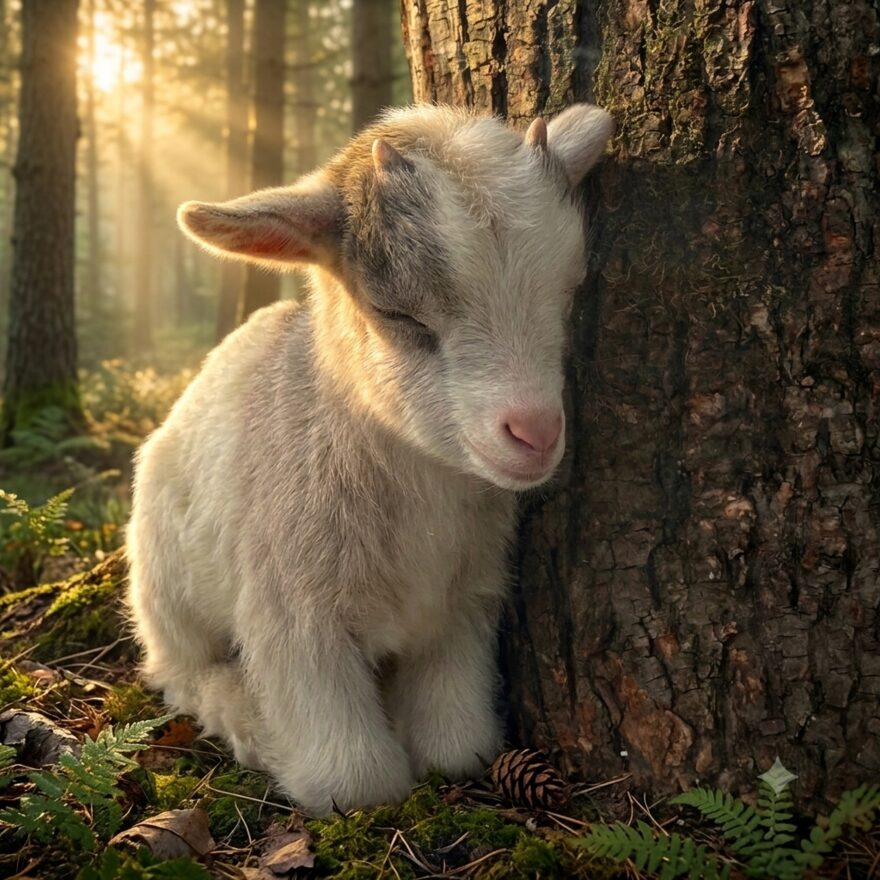
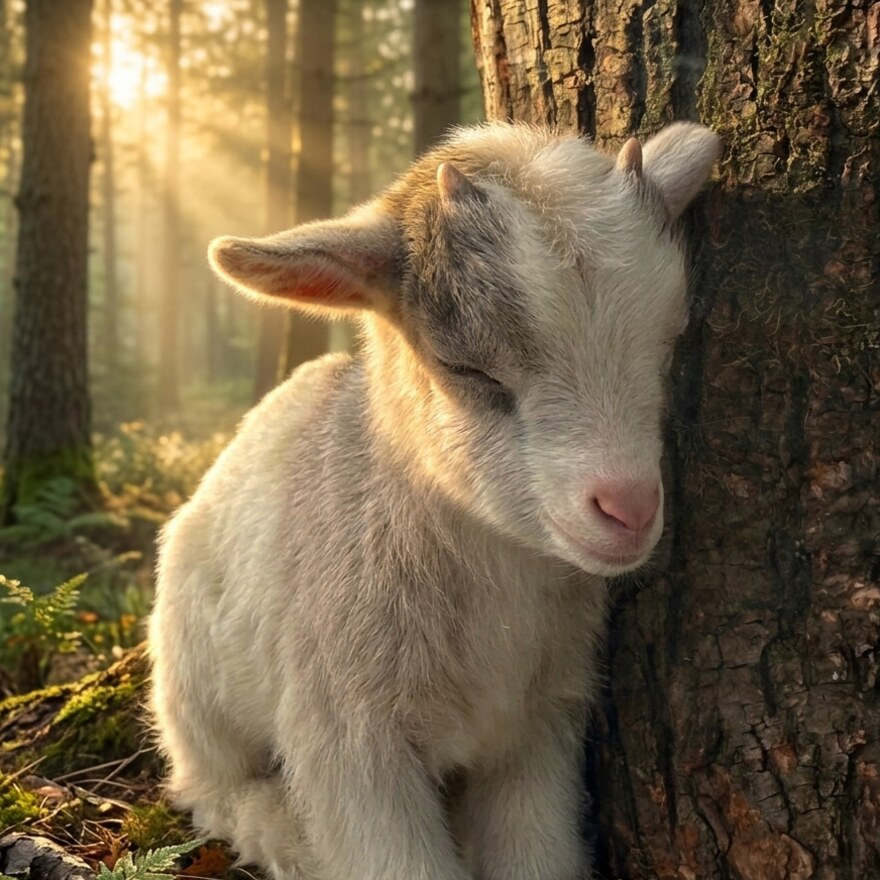
Real album sources/metadata, cover updates, rasta border fixes
- Tabula Rasta: 2001 debut on Internet Archive (not SoundCloud); add
  archiveUrl support to albums.js + AlbumPage embeds/links the archive
  player; real tracklist, credits, liner notes
- Reggae Regatta: correct 2016 date; full 13-track listing from the
  SoundCloud playlist; refreshed OG art
- New square covers for Tabula Rasta and Morning Ritual
- Footer text bumped up the type ramp for legibility
- photo-border: uniform 2px so the rasta gradient wraps all four sides
  evenly; display:block on the frame so the home Latest Drop (span)
  border tracks the image height

diff --git a/src/data/albums.js b/src/data/albums.js
@@ -12,6 +12,9 @@
  *   coverArt      string   square sleeve (public path)
  *   ogImage       string   1200×630 social card (public path); optional → brand default
  *   soundcloudUrl string   canonical SoundCloud playlist URL (source for the embed)
+ *   archiveUrl    string   Internet Archive item URL (/details/…) — alternative
+ *                          source to soundcloudUrl; the page embeds + links whichever
+ *                          one is present (archive wins if both are set)
  *   notes         string[] paragraphs of about/liner prose (optional)
  *   tracklist     string[] ordered track titles (optional)
  *   credits       object   { producer, musicians[], studio } (all optional)
@@ -20,7 +23,7 @@ export const albums = [
   {
     slug: 'reggae-regatta',
     title: 'Reggae Regatta',
-    year: '2024',
+    year: '2016',
     coverArt: '/covers/reggae-regatta.jpg',
     ogImage: '/og/reggae-regatta.jpg',
     // This is the album that lived on the homepage SoundCloud embed.
@@ -30,11 +33,19 @@ export const albums = [
       'Mixed for the night session: warm, weathered, and built to be played end to end. Always militant, never political.',
     ],
     tracklist: [
-      'Regatta Overture',
-      'Tide & Time',
-      'Harbour Dub',
-      'Sammy-on-Fire',
-      'Long Crossing',
+      'GRP Funk',
+      'On Island',
+      'Make Reggae Great Again',
+      'Snow Day',
+      'Reggae Winter',
+      'Evil Farmer',
+      'Reggae House Party',
+      'Kandinsky Does Not Tell Us',
+      'Nosara Nights',
+      'Riff Oceanus',
+      'First Light',
+      '90 Minutes North of Miami',
+      'Furniture Sold',
     ],
     credits: {
       producer: 'Sammy-on-Fire',
@@ -45,16 +56,26 @@ export const albums = [
   {
     slug: 'tabula-rasta',
     title: 'Tabula Rasta',
-    year: '2026',
+    year: '2001',
     coverArt: '/covers/tabula-rasta.jpg',
     ogImage: '/og/tabula-rasta.jpg',
-    // PLACEHOLDER — swap for the real Tabula Rasta playlist URL when it lands.
-    soundcloudUrl: 'https://soundcloud.com/tabula-rasta/sets/tabula-rasta',
+    // The debut lives on the Internet Archive, not SoundCloud.
+    archiveUrl: 'https://archive.org/details/Georgetown_Reggae_Project_Tabula_Rasta',
     notes: [
-      'A clean slate. Tabula Rasta is the next record taking shape — sparser, stranger, the riddim wiped back to first principles.',
+      "The GRP's debut. Tabula Rasta dropped on February 17, 2001 — a clean slate, the riddim wiped back to first principles: seven cuts of studio-built reggae, sparse and strange, dub tails left long.",
+      'Most music written by GRP. With respect to Peter, Bunny and Bob, Black Uhuru, Marcus Garvey, Big Youth — and Bret Easton Ellis. Always militant, never political.',
+    ],
+    tracklist: [
+      'Used to Go to Church',
+      'Stir It Up Dub',
+      'Mellow Wine',
+      'The Clique',
+      'Freebass',
+      'Ghebresus',
+      'Freebass (Not Like, It Is)',
     ],
     credits: {
-      producer: 'Sammy-on-Fire',
+      musicians: ['Chinamon', 'Doc Brown', "Drumbo'x"],
       studio: 'Georgetown Sound',
     },
   },

diff --git a/src/pages/AlbumPage.jsx b/src/pages/AlbumPage.jsx
@@ -22,6 +22,11 @@ function toEmbedUrl(setUrl) {
   return `https://w.soundcloud.com/player/?${params.toString()}`;
 }
 
+/** Turn an Internet Archive item URL (…/details/ID) into its embed URL (…/embed/ID). */
+function toArchiveEmbedUrl(itemUrl) {
+  return itemUrl.replace('/details/', '/embed/');
+}
+
 /**
  * Per-album landing page (/albums/:slug). Mirrors the release-page anatomy —
  * framed sleeve, title + year, in-place playback, notes, credits — but the
@@ -38,9 +43,18 @@ export default function AlbumPage() {
 
   if (!album) return <NotFound />;
 
-  const { title, year, coverArt, ogImage, soundcloudUrl, notes, tracklist, credits } = album;
+  const { title, year, coverArt, ogImage, soundcloudUrl, archiveUrl, notes, tracklist, credits } = album;
   const ogAbsolute = SITE + (ogImage || '/og/tabula-rasta.jpg');
   const shareUrl = `${SITE}/albums/${slug}`;
+
+  // Each album streams from one source: Internet Archive (debut) or SoundCloud.
+  const onArchive = Boolean(archiveUrl);
+  const listenUrl = archiveUrl || soundcloudUrl;
+  const listenLabel = onArchive ? 'Listen on Internet Archive' : 'Listen on SoundCloud';
+  const embedSrc = onArchive ? toArchiveEmbedUrl(archiveUrl) : toEmbedUrl(soundcloudUrl);
+  const playerTitle = onArchive
+    ? `${title} — Internet Archive player`
+    : `${title} — SoundCloud player`;
 
   function copyLink() {
     navigator.clipboard?.writeText(shareUrl).then(() => {
@@ -87,11 +101,11 @@ export default function AlbumPage() {
           <div className="release__actions">
             <a
               className="release__btn release__btn--primary"
-              href={soundcloudUrl}
+              href={listenUrl}
               target="_blank"
               rel="noreferrer"
             >
-              Listen on SoundCloud <span aria-hidden="true">&#8599;</span>
+              {listenLabel} <span aria-hidden="true">&#8599;</span>
             </a>
             <button
               type="button"
@@ -115,8 +129,8 @@ export default function AlbumPage() {
         </div>
         <iframe
           className="release__player"
-          title={`${title} — SoundCloud player`}
-          src={toEmbedUrl(soundcloudUrl)}
+          title={playerTitle}
+          src={embedSrc}
           width="100%"
           height="380"
           frameBorder="0"

diff --git a/src/App.css b/src/App.css
@@ -288,8 +288,12 @@ main:focus { outline: none; }
 .photo-border {
   position: absolute;
   inset: 0;
-  border: 1px solid var(--color-border-secondary);
-  border-bottom: 2px solid;
+  /* Rasta ribbon wrapping all four sides. Uniform 2px width is the key: the
+     horizontal gradient sweeps red→gold→green across top & bottom and resolves
+     to solid red (left) / green (right), so every corner meets on a matching
+     colour and the frame reads as one continuous band. Uneven widths made it
+     look bottom-heavy. */
+  border: 2px solid var(--color-border-secondary);
   border-image: var(--gradient-rasta) 1;
   z-index: 4;
   pointer-events: none;
@@ -518,7 +522,7 @@ main:focus { outline: none; }
 .footer-nav a {
   font-family: var(--font-label);
   font-weight: var(--font-weight-semibold);
-  font-size: var(--font-size-xs);
+  font-size: var(--font-size-sm);
   letter-spacing: var(--letter-spacing-wide);
   text-transform: uppercase;
   color: var(--color-text-tertiary);
@@ -540,8 +544,8 @@ main:focus { outline: none; }
 .footer-text {
   font-family: var(--font-quote);
   font-style: italic;
-  font-size: var(--font-size-sm);
-  color: var(--color-text-tertiary);
+  font-size: var(--font-size-base);
+  color: var(--color-text-secondary);
   line-height: 2;
 }
 
@@ -946,6 +950,7 @@ main:focus { outline: none; }
 
 .release__cover-frame {
   position: relative;
+  display: block;
   overflow: hidden;
   line-height: 0;
   max-width: 340px;
